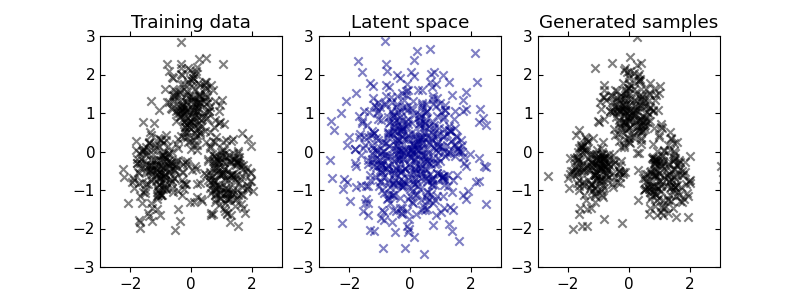
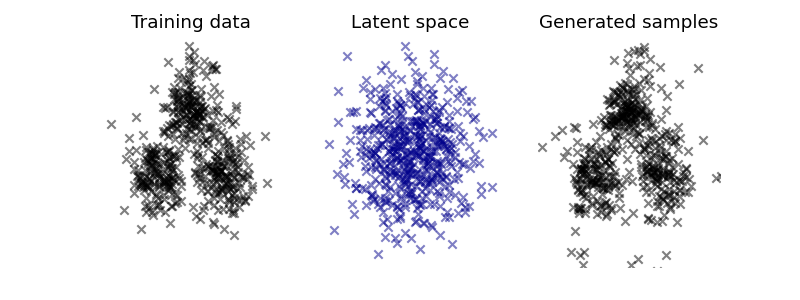
Minor updates.

diff --git a/examples/ex_1d.py b/examples/ex_1d.py
@@ -22,6 +22,7 @@ def plot_data(x, bandwidth = 0.2, **kwargs):
     kde = sp.stats.gaussian_kde(x[:,0])
     x_axis = np.linspace(-5, 5, 200)
     plt.plot(x_axis, kde(x_axis), **kwargs)
+    plt.axis("off")
 
 
 if __name__ == "__main__":

diff --git a/examples/ex_2d.py b/examples/ex_2d.py
@@ -28,6 +28,7 @@ def plot_data(x, **kwargs):
     plt.scatter(x[:,0], x[:,1], marker="x", **kwargs)
     plt.xlim((-3, 3))
     plt.ylim((-3, 3))
+    plt.axis("off")
 
 
 if __name__ == "__main__":

diff --git a/README.md b/README.md
@@ -4,14 +4,10 @@ Last update: December 2022.
 
 ---
 
-Implementations of normalizing flow models [1] for generative modeling in PyTorch.
+Lightweight normalizing flows for generative modeling in PyTorch.
 
-```mermaid
-graph LR;
-  Z --> X;
-```
+#### Setup
 
-A normalizing flow assumes a model over continuous variables
 ```math
 \begin{align*}
 \mathbf{x} & = f_\theta^{-1}(\mathbf{z}) & \mathbf{z} & = f_\theta(\mathbf{x}),
@@ -21,7 +17,7 @@ A normalizing flow assumes a model over continuous variables
 where $f:\mathbb{R}^d \mapsto \mathbb{R}^d$ is an invertible function. The Change of Variables formula tells us that
 ```math
 \begin{align*}
-\underset{\text{over }\mathbf{x}}{p(\mathbf{x})} &= \underset{\text{over }\mathbf{z}}{p\left(f_\theta(\mathbf{x})\right)} \left|\mathrm{det}\left(\frac{\partial f_\theta \mathbf{x}}{\partial \mathbf{x}}\right)\right|
+\underbrace{p(\mathbf{x})}_{\text{over }\mathbf{x}} &= \underbrace{p\left(f_\theta(\mathbf{x})\right)}_{\text{over }\mathbf{z}} \left|\mathrm{det}\left(\frac{\partial f_\theta \mathbf{x}}{\partial \mathbf{x}}\right)\right|
 \end{align*}
 ```
 
@@ -29,26 +25,24 @@ Here $\frac{\partial f_\theta\mathbf{x}}{\partial \mathbf{x}}$ denotes the $d \t
 
 We typically choose a simple distribution over the latent space, $p(\mathbf{z})\sim N(\mathbf{0},\mathbf{I})$.
 
-Suppose we compose functions $f_\theta(x) = f_1\circ f_2 \circ \dots f_k(x;\theta)$. The log-likelihood decomposes nicely.
+Suppose we compose functions $f_\theta(\mathbf{x}) = f_1\circ f_2 \circ \dots f_k(\mathbf{x};\theta)$. The log-likelihood decomposes nicely.
 ```math
 \begin{align*}
 \log p(\mathbf{x}) & = \log p\left(f_\theta(\mathbf{x}\right)) + \sum_{i=1}^k\log \mathrm{det}\frac{\partial f_i(\mathbf{x};\theta)}{\partial \mathbf{x}}
 \end{align*}
 ```
-Sampling can be done easily as well, as long as $f_\theta^{-1}$ is tractable.
+Sampling can be done easily, as long as $f_\theta^{-1}$ is tractable.
 
-**Implementations**
+#### Implemented Flows
 
-We implement the following flows:
-
-**Planar and radial flows** [1]. Note these have no algebraic inverse $f^{-1}(x)$.
+**Planar and radial flows** [1]. Note these have no algebraic inverse $f^{-1}(\mathbf{x})$.
 ```math
 \begin{align*}
-f(x) & = x + uh(w^\top z + b)\\
-f(x) & = x + \frac{\beta(x-x_0)}{\alpha + \|x-x_0\|}
+f(\mathbf{x}) & = \mathbf{x} + \mathbf{u}h(\mathbf{w}^\top \mathbf{z} + b)\\
+f(\mathbf{x}) & = \mathbf{x} + \frac{\beta(\mathbf{x}-\mathbf{x}_0)}{\alpha + \|\mathbf{x}-\mathbf{x}_0\|}
 \end{align*}
 ```
-**Real NVP** [2]. Partition the vector $\mathbf{x}$ into components $\mathbf{x}^{(1)},\mathbf{x}^{(2)}$. Let $s,t$ be arbitrary neural networks mapping $\mathbb{R}^d \mapsto \mathbb{R}^d$.
+**Real NVP** [2]. Partition the vector $\mathbf{x}$ into components $\mathbf{x}^{(1)},\mathbf{x}^{(2)}$. Let $s,t$ be arbitrary neural networks $\mathbb{R}^d \mapsto \mathbb{R}^d$.
 ```math
 \begin{align*}
 f(\mathbf{x}^{(1)}) &= t(\mathbf{x}^{(2)}) + \mathbf{x}^{(1)}\odot \exp s(\mathbf{x}^{(2)})\\
@@ -79,7 +73,7 @@ f(\mathbf{x}^{(1)}) & = \mathrm{RQS}_{g(\mathbf{x}^{(2)})}(\mathbf{x}^{(1)}) \te
 f(\mathbf{x}^{(2)}) & = \mathrm{RQS}_{g(\mathbf{x}^{(1)})}(\mathbf{x}^{(2)})
 \end{align*}
 ```
-**Example**
+#### Examples
 
 Below we show examples (in 1D and 2D) transforming a mixture of Gaussians into a unit Gaussian.
 
